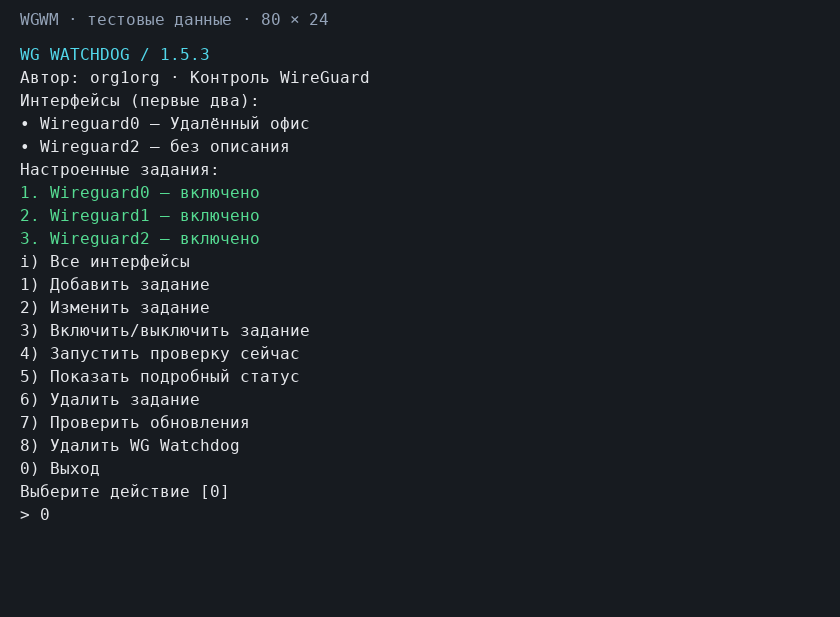
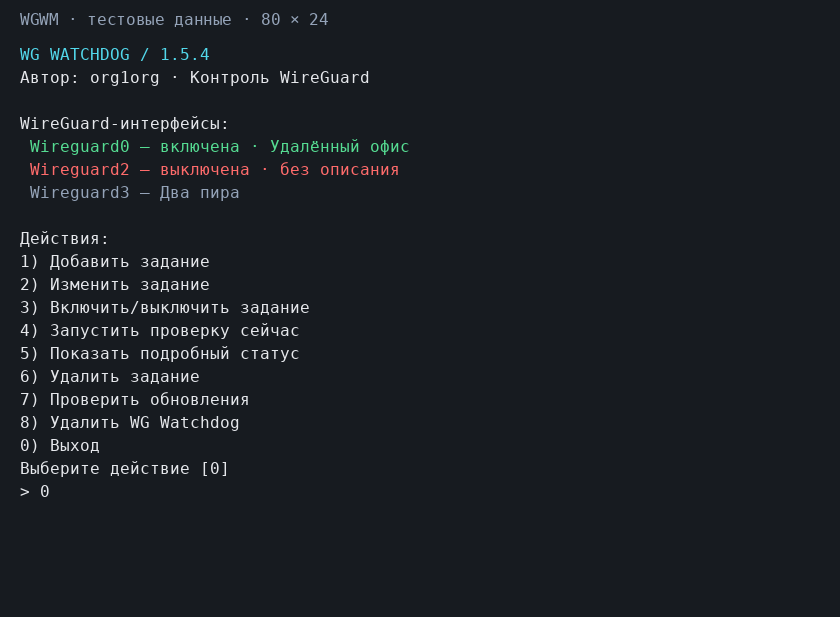
Improve job selection and interface status UI for v1.5.4
Show every detected interface with enabled, disabled, or unconfigured color.
Use one explicit, cancelable job picker for edit, toggle, run, status, and delete.

Changed region(s): [[0.0, 0.154, 0.4952, 0.8314]]

diff --git a/tests/terminal.py b/tests/terminal.py
@@ -15,7 +15,8 @@ import time
 REPO = Path(__file__).resolve().parent.parent
 
 
-def run_case(rows=24, cols=80, terminate=False, plain=False, jobs=0, actions=None):
+def run_case(rows=24, cols=80, terminate=False, plain=False, jobs=0,
+             actions=None, job_answers=None, disabled_jobs=None):
     with tempfile.TemporaryDirectory(prefix="wgwm-pty-") as root:
         master, slave = pty.openpty()
         fcntl.ioctl(slave, termios.TIOCSWINSZ, struct.pack("HHHH", rows, cols, 0, 0))
@@ -24,9 +25,10 @@ def run_case(rows=24, cols=80, terminate=False, plain=False, jobs=0, actions=Non
         env.pop("NO_COLOR", None)
         Path(root, "config").mkdir()
         for number in range(jobs):
+            enabled = "no" if number in (disabled_jobs or []) else "yes"
             Path(root, "config", f"Wireguard{number}.conf").write_text(
                 f"JOB_ID='Wireguard{number}'\nWG_INTERFACE='Wireguard{number}'\n"
-                "ENABLED='yes'\nWG_SERVER_TUNNEL_IP='10.0.0.1'\nCHECK_INTERVAL='5'\n"
+                f"ENABLED='{enabled}'\nWG_SERVER_TUNNEL_IP='10.0.0.1'\nCHECK_INTERVAL='5'\n"
             )
         script = """
             . "$TEST_REPO/wg-watchdog-manager.sh"
@@ -50,8 +52,10 @@ def run_case(rows=24, cols=80, terminate=False, plain=False, jobs=0, actions=Non
         output = bytearray()
         sent = False
         prompts_answered = 0
+        job_prompts_answered = 0
         pages_answered = 0
         pending_actions = list(actions or ["0"])
+        pending_job_answers = list(job_answers or [])
         deadline = time.monotonic() + 10
         try:
             while time.monotonic() < deadline:
@@ -65,8 +69,15 @@ def run_case(rows=24, cols=80, terminate=False, plain=False, jobs=0, actions=Non
                         break
                     output.extend(chunk)
                     prompts_seen = output.count("Выберите действие".encode())
+                    job_prompts_seen = (
+                        output.count("Выберите задание".encode())
+                        + output.count("Какое задание".encode())
+                    )
                     pages_seen = output.count("Enter — продолжить".encode())
-                    if prompts_seen > prompts_answered:
+                    if job_prompts_seen > job_prompts_answered:
+                        job_prompts_answered = job_prompts_seen
+                        os.write(master, (pending_job_answers.pop(0) + "\n").encode())
+                    elif prompts_seen > prompts_answered:
                         prompts_answered = prompts_seen
                         if terminate:
                             process.send_signal(signal.SIGTERM)
@@ -90,10 +101,14 @@ def run_case(rows=24, cols=80, terminate=False, plain=False, jobs=0, actions=Non
                 assert b"\x1b[?7h" in output
                 assert b"\x1b[2J" in output
                 assert b"\x1b[1;36m" in output
-            if jobs > 3:
-                assert "Следующие задания".encode() in output
-                if rows >= 24 and cols >= 80:
-                    assert "Enter — продолжить".encode() not in output, "Главное меню не помещается на экране"
+            assert "Wireguard3".encode() in output, "Показаны не все интерфейсы"
+            assert "Два пира".encode() in output, "Не показано описание последнего интерфейса"
+            if job_answers:
+                assert "Настроенные задания:".encode() in output
+                assert "0) Вернуться в главное меню".encode() in output
+                assert "Выберите задание [1]".encode() not in output
+            if disabled_jobs:
+                assert b"\x1b[1;31m" in output, "Отключённое задание не выделено красным"
             return output.decode(errors="replace")
         finally:
             if process.poll() is None:
@@ -108,8 +123,8 @@ if __name__ == "__main__":
         dict(rows=20, cols=60),
         dict(terminate=True),
         dict(plain=True),
-        dict(jobs=7, actions=["n", "0"]),
-        dict(actions=["i", "0"]),
+        dict(jobs=7, disabled_jobs=[2]),
+        dict(jobs=2, actions=["3", "0"], job_answers=["0"]),
     ]:
         run_case(**case)
         print("ok PTY", case)

diff --git a/tests/render_terminal.py b/tests/render_terminal.py
@@ -6,7 +6,7 @@ from PIL import Image, ImageDraw, ImageFont
 from terminal import run_case
 
 ROWS, COLS = 24, 80
-stream = run_case(jobs=3).split("\x1b[?1049l")[0]
+stream = run_case(jobs=3, disabled_jobs=[2]).split("\x1b[?1049l")[0]
 screen = [[(" ", "#e5e7eb") for _ in range(COLS)] for _ in range(ROWS)]
 row = col = 0
 color = "#e5e7eb"
@@ -31,7 +31,10 @@ for match in re.finditer(r"\x1b\[([0-9;?]*)([A-Za-z])|([^\x1b])", stream):
     elif command == "K" and values == "2" and row < ROWS:
         screen[row] = [(" ", color) for _ in range(COLS)]
     elif command == "m":
-        color = {"1;36": "#52d8eb", "1;32": "#55dc92", "1;33": "#f5c96a"}.get(values, "#e5e7eb")
+        color = {
+            "1;31": "#ff6b6b", "1;32": "#55dc92", "1;33": "#f5c96a",
+            "1;36": "#52d8eb", "1;90": "#94a3b8",
+        }.get(values, "#e5e7eb")
 
 font = ImageFont.truetype("/usr/share/fonts/truetype/dejavu/DejaVuSansMono.ttf", 16)
 cell_width, cell_height = 10, 23

diff --git a/README.md b/README.md
@@ -9,7 +9,7 @@
 - находит WireGuard-интерфейсы Keenetic и показывает их описания;
 - поддерживает несколько независимых заданий — по одному на каждый интерфейс;
 - позволяет добавлять, изменять, включать, выключать и удалять задания;
-- выделяет настроенные задания зелёным цветом и нумерует их с точкой;
+- выделяет включённые задания зелёным, выключенные красным и нумерует их с точкой;
 - показывает состояние, последнюю проверку, последний успех и последний перезапуск;
 - запускает выбранное задание вручную, даже если оно отключено;
 - требует несколько неудачных проверок подряд перед перезапуском;
@@ -70,10 +70,12 @@ wgwm
 при выходе восстанавливается обычная консоль. Новый экран не требует curses,
 dialog или Python на роутере.
 
-Вверху показаны первые два интерфейса; `i` открывает полный список. Задания
-отображаются по три, `n` переключает страницы. Номера заданий остаются общими.
-На экране 80×24 основное меню помещается целиком; в меньшем окне длинный вывод
-разбивается на страницы. Размер окна учитывается при следующей перерисовке.
+Вверху показаны все найденные интерфейсы. Включённая проверка отмечается зелёным,
+выключенная — красным, ненастроенный интерфейс — серым. При выборе изменения,
+включения, ручной проверки, статуса или удаления менеджер заново показывает все
+настроенные задания. Задание по Enter не выбирается; `0` возвращает в главное меню.
+В небольшом окне длинный вывод разбивается на страницы. Размер окна учитывается
+при следующей перерисовке.
 Очень длинные слова без пробелов могут обрезаться по ширине терминала;
 для полной диагностики предусмотрен `wgwm --plain`.
 
@@ -231,7 +233,7 @@ rm -rf /opt/etc/wg-watchdog.d /tmp/wg-watchdog
 
 ## Автоматические тесты
 
-В каталоге `tests` находится стенд с подменёнными системными командами. Он выполняет 56 проверок:
+В каталоге `tests` находится стенд с подменёнными системными командами. Он выполняет 57 проверок:
 восстановление туннеля, диалоги, установку, удаление, блокировки, ошибки файловых операций,
 сохранность cron и временные файлы:
 

diff --git a/ROADMAP.md b/ROADMAP.md
@@ -7,6 +7,11 @@
 не поддерживает `stat -c`. Гипотезы v1.5.1–v1.5.2 про особый UID или
 недоступность `/opt` не подтвердились; соответствующее послабление удалено.
 Рабочие каталоги снова должны принадлежать root.
+
+В v1.5.4 главный экран показывает все обнаруженные WireGuard-интерфейсы:
+включённые проверки выделены зелёным, выключенные красным, ненастроенные интерфейсы
+серым. Все действия над заданием используют общий список без выбора по Enter
+и поддерживают возврат в главное меню по `0`.
 Установщик из `main` содержит описанные ниже изменения.
 
 Проверены установщик, менеджер, watchdog, документация и существующий тестовый стенд.
@@ -47,7 +52,7 @@
 
 ## Проверки
 
-56 mock-сценариев и 6 проверок интерфейса через настоящий PTY.
+57 mock-сценариев и 6 проверок интерфейса через настоящий PTY.
 Синтаксис проверяется sh/dash; реальное оборудование недоступно.
 BusyBox и ShellCheck в текущей среде отсутствуют. Dash не доказывает совместимость
 утилит wget, ping, cron и ndmc на Entware.
